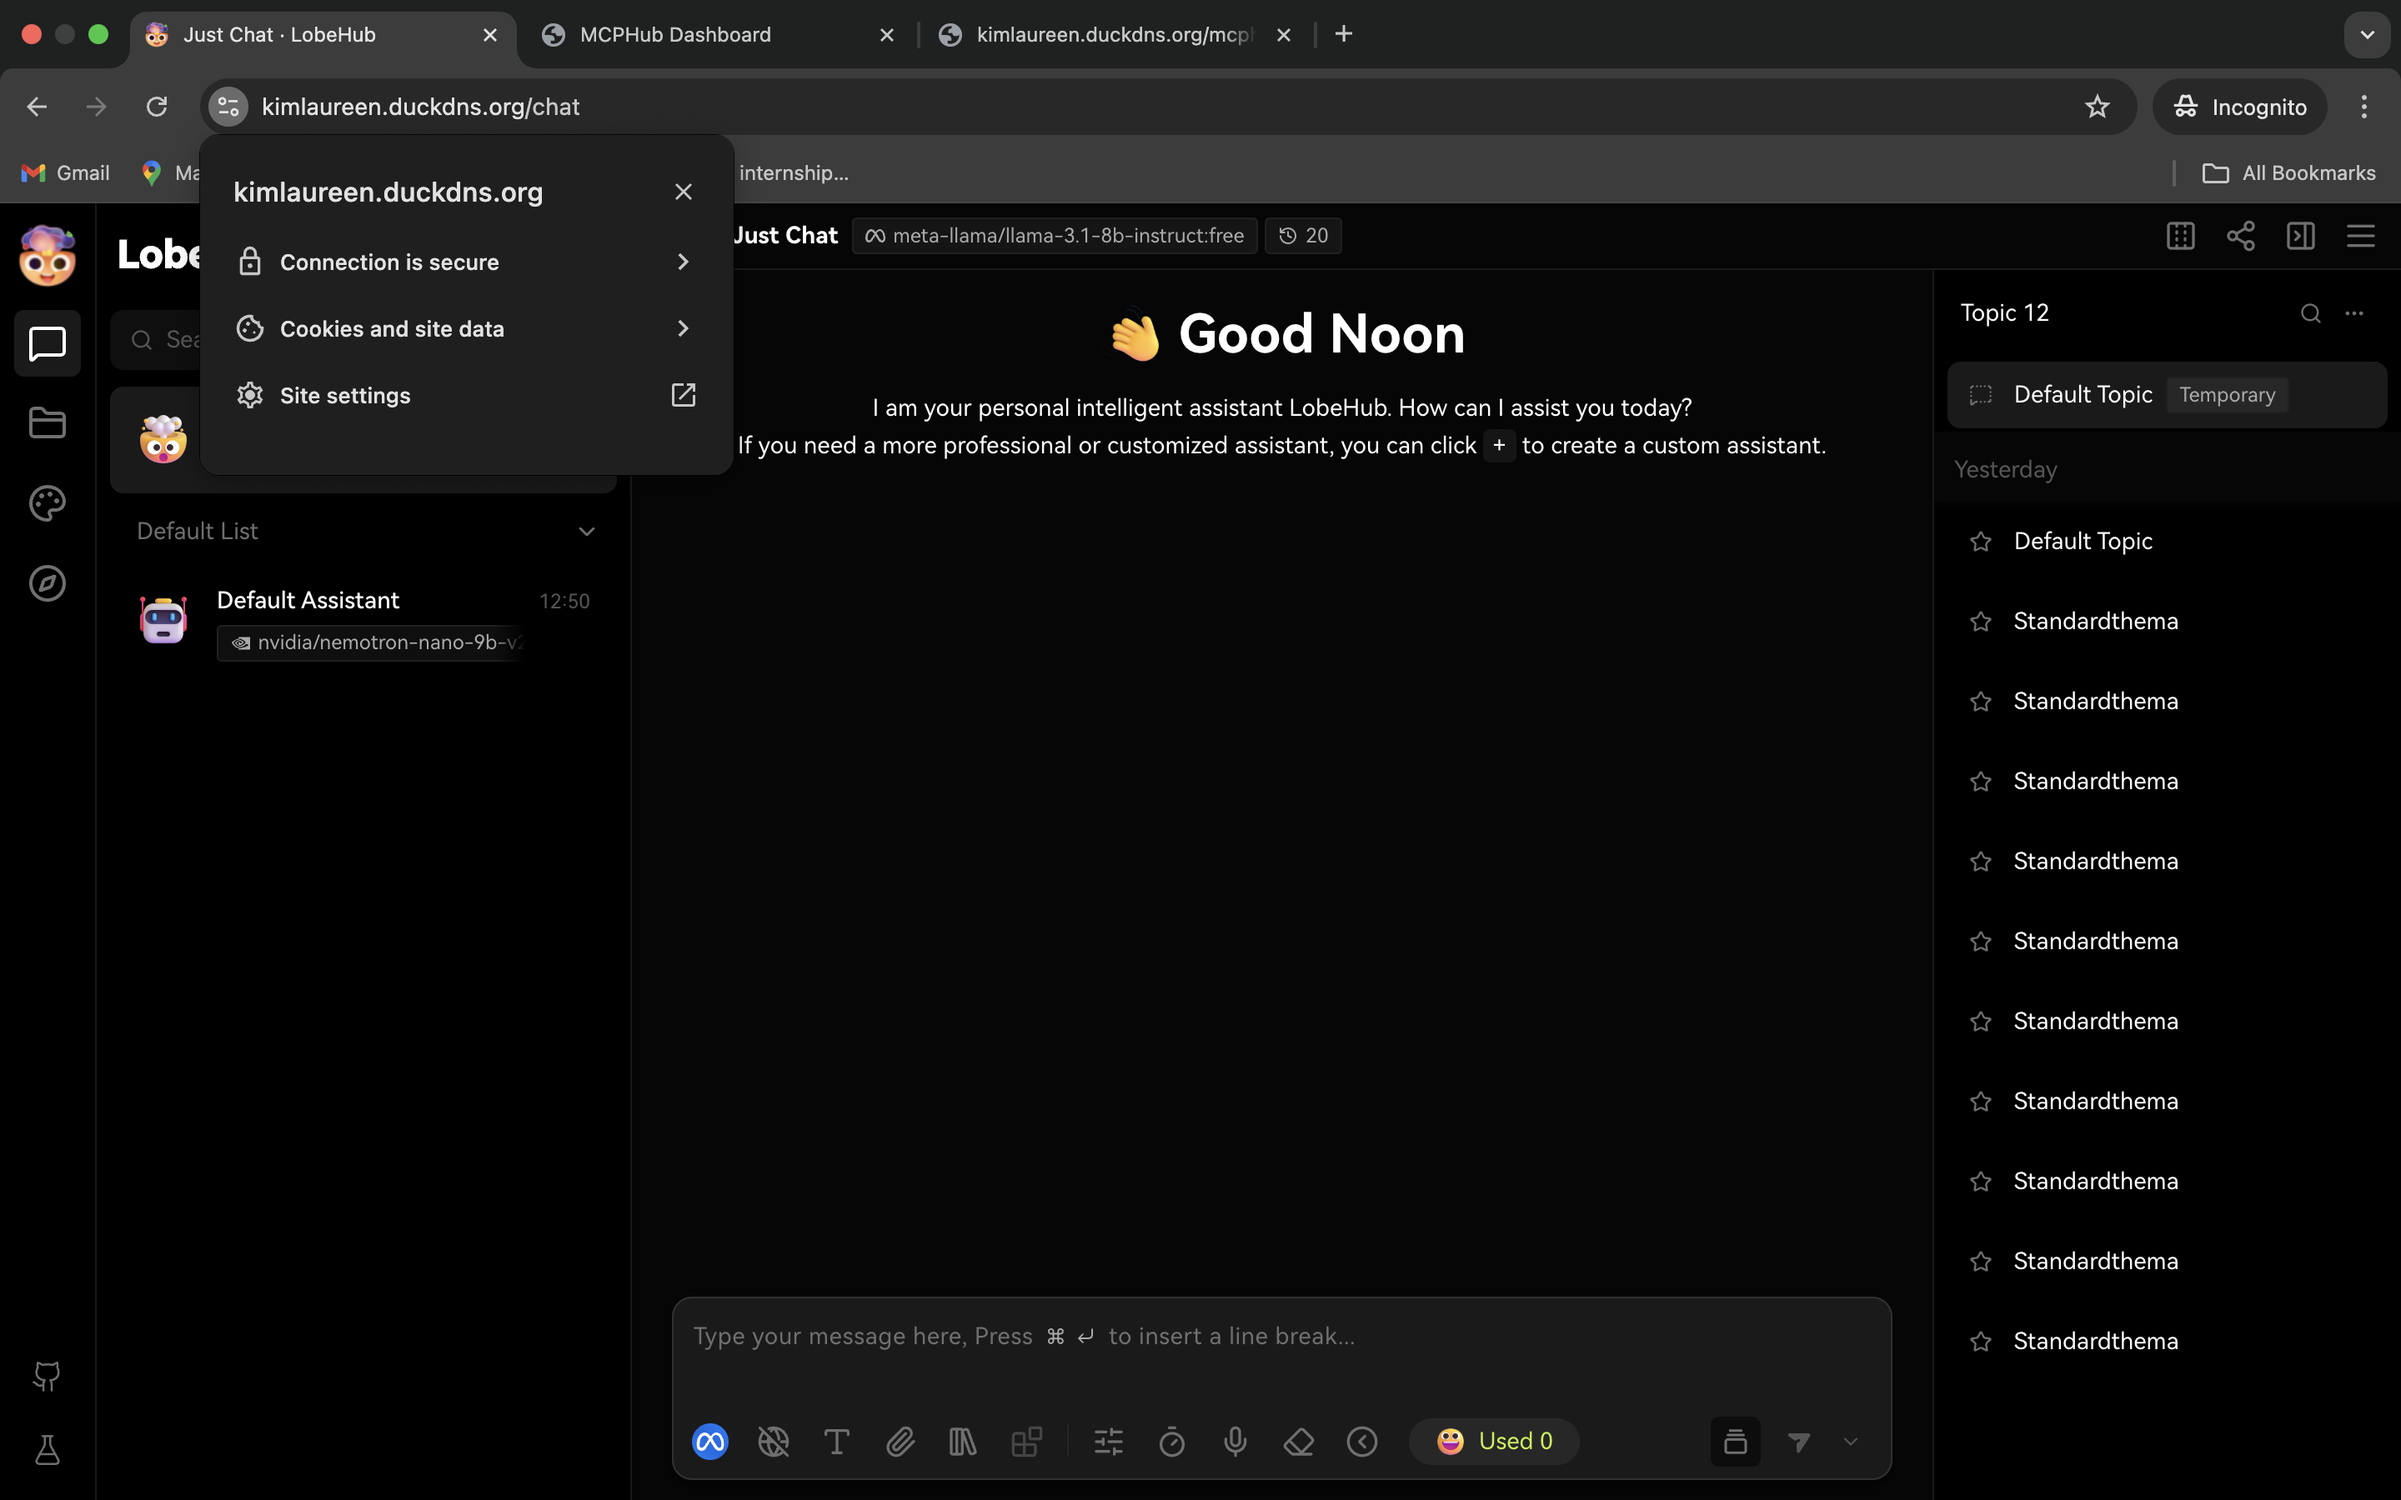
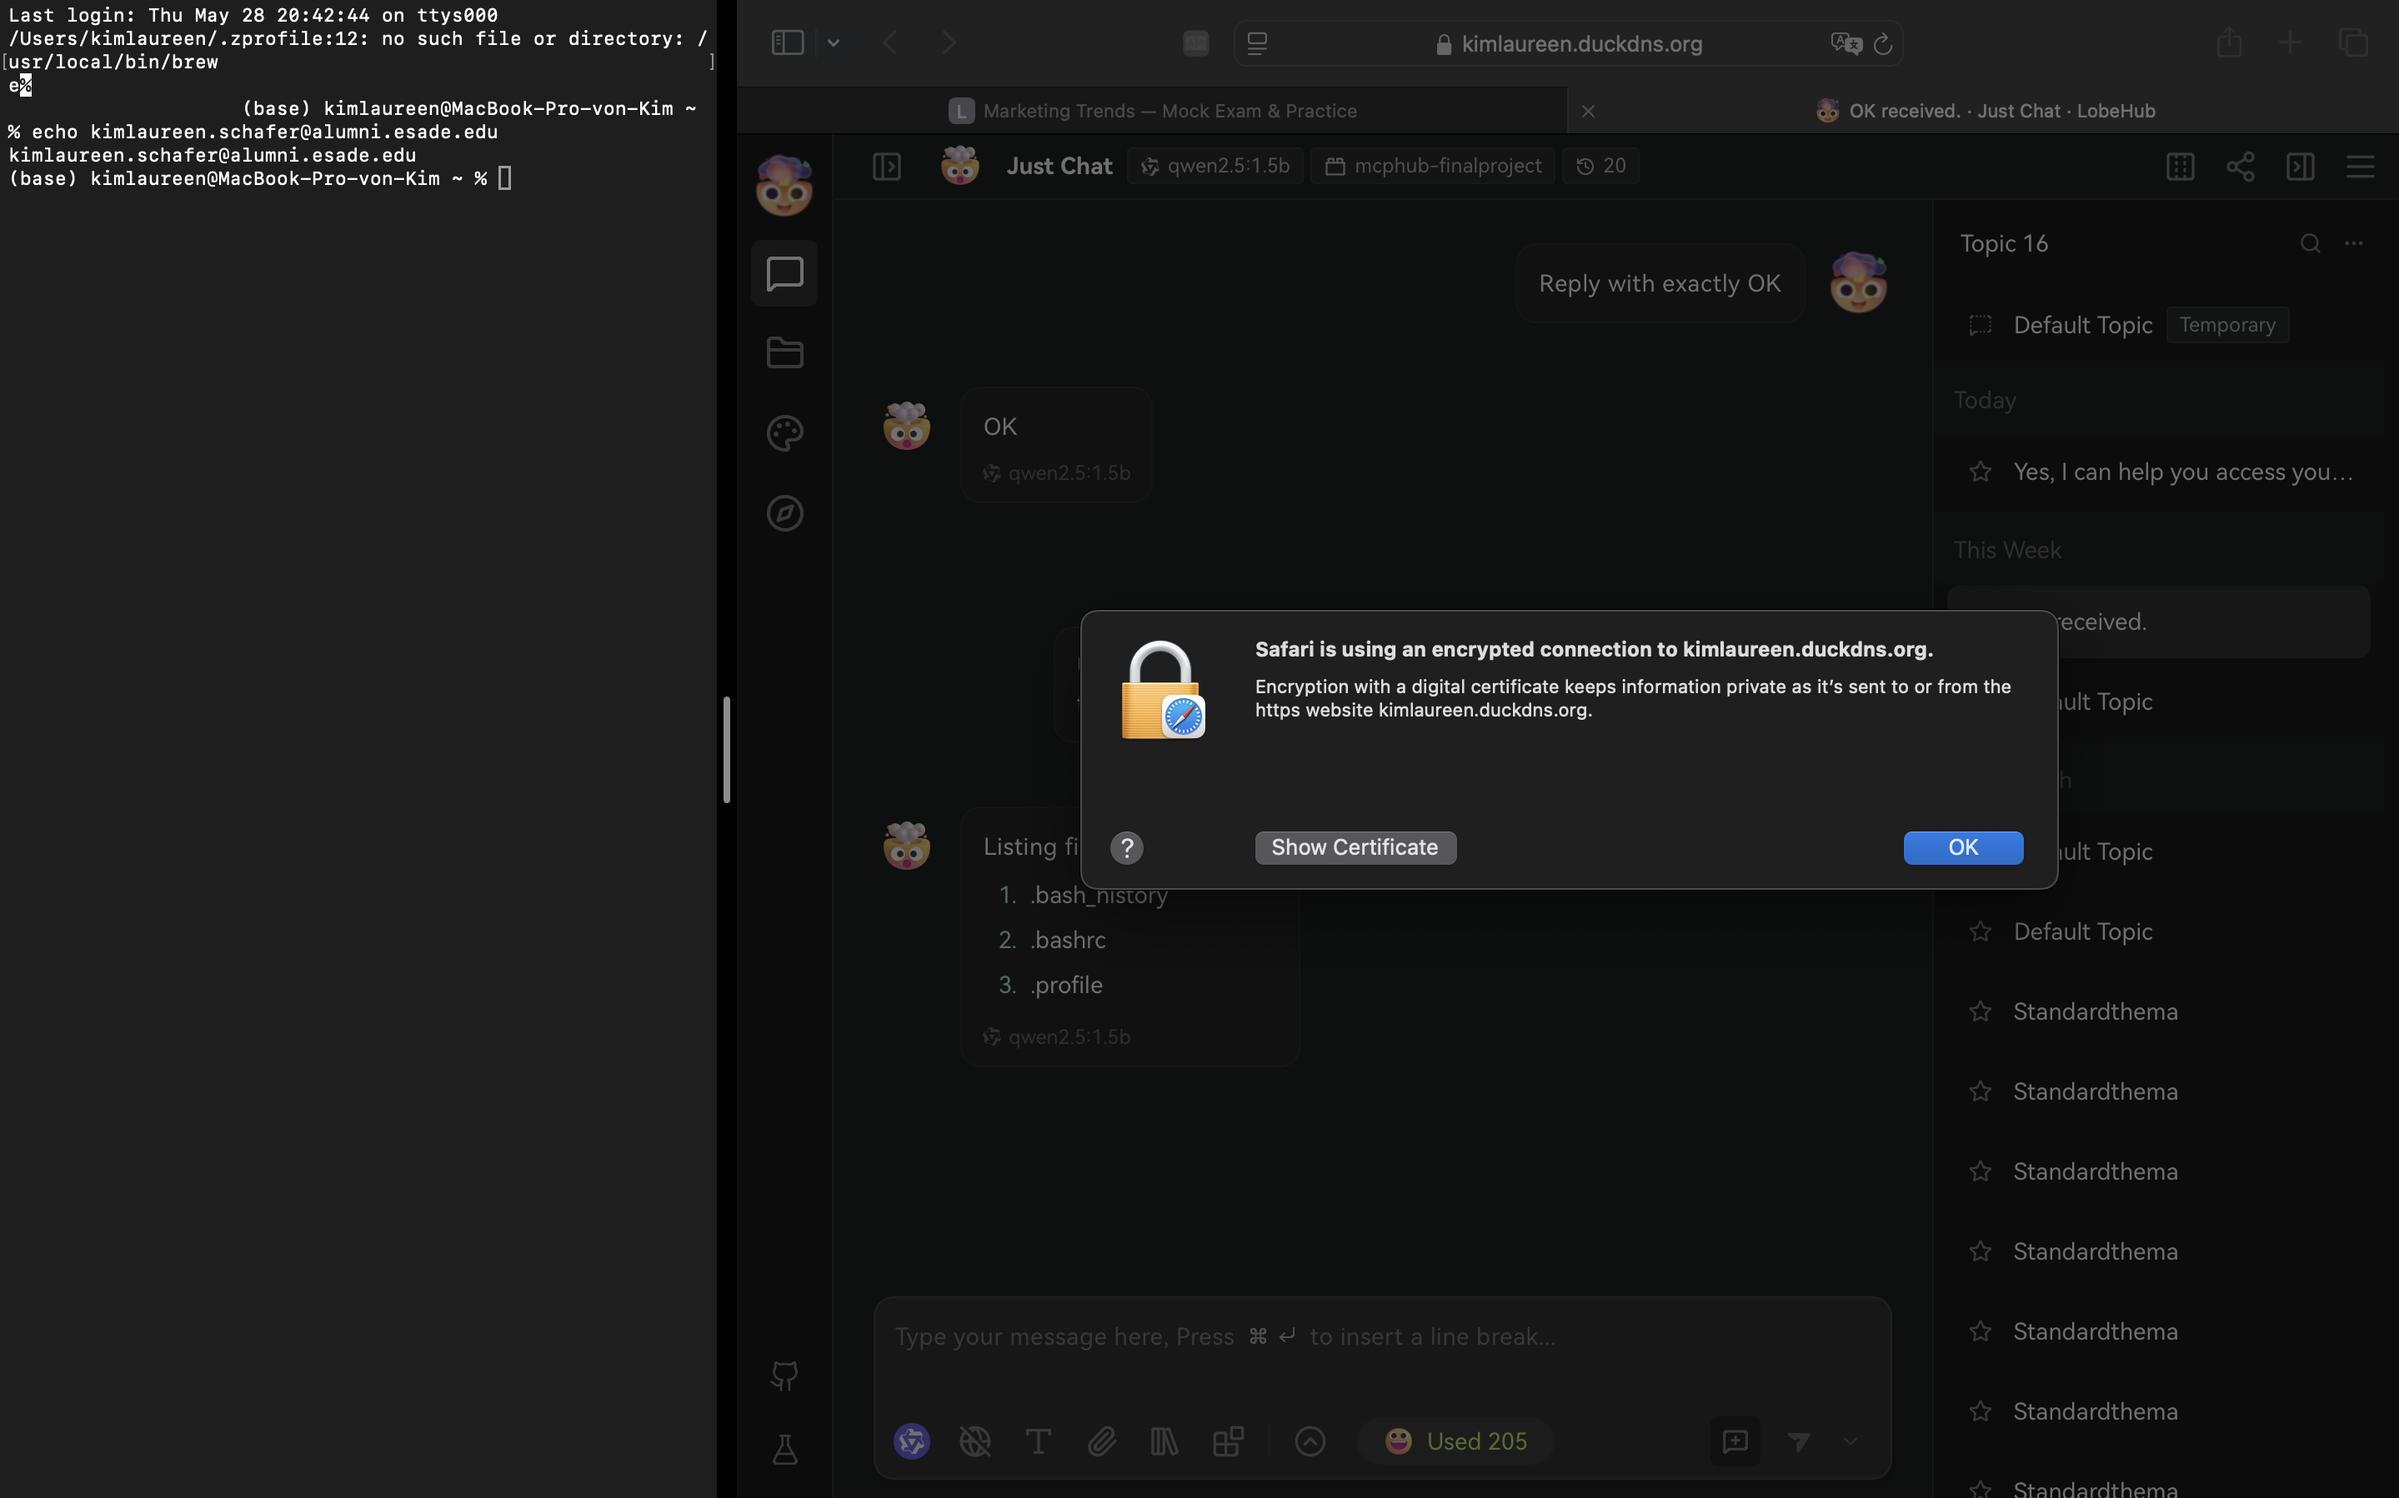
docs(evidence): refresh TLS validation evidence

diff --git a/docs/evidence/tls-validation.md b/docs/evidence/tls-validation.md
@@ -1,52 +1,101 @@
 # TLS Validation Checklist
 
-> Required by Appendix A.4. Failing any item = practical capped at 50%.
->
-> Complete each item after deployment. Replace `[ ]` with `[x]` and add
-> a timestamped screenshot path next to it.
+Appendix A.4 requires proof that the public HTTPS hostname carries the full
+LobeChat workflow, not only a green padlock.
 
 **Public URL:** https://kimlaureen.duckdns.org  
-**Student:** Kim Schäfer — kimlaureen.schafer@alumni.esade.edu
+**Student:** Kim Schäfer — kimlaureen.schafer@alumni.esade.edu  
+**Region:** `eu-west-1`  
+**EC2 instance:** `i-07ac5f31a6975d3c2` (`lobechat-server`)
 
----
+## Final Checklist
 
-## Checklist
+| Check | Status | Evidence |
+|---|---:|---|
+| Casdoor login flow completes from the public URL, with no `Secure cookie` or `redirect_uri` errors. | Passed | `casdoor-login.png`, captured `2026-05-12 13:06:28 CEST` |
+| LobeChat chat streaming works over HTTPS. | Passed | `chat-mcp.png`, captured `2026-05-30 15:46:26 CEST`; response visible in chat after prompt submission. |
+| At least one MCP tool invoked from chat returns a result. | Passed | `chat-mcp.png`, captured `2026-05-30 15:46:26 CEST`; filesystem MCP result lists `/workspace` entries. |
+| File upload to MinIO from chat works. | Pending successful upload screenshot | Needs `file-upload.png` after a successful upload from the chat attachment button. |
+| Direct connection to EC2 origin is rejected, not served directly. | Passed | `curl` to `http://18.202.153.230:47000/` timed out on `2026-05-30`; `http://18.202.153.230:443/` returned `400 Bad Request` because the port expects HTTPS. |
+| Browser shows a valid certificate chain on the public hostname. | Passed | `tls-cert.png`, captured `2026-05-30 15:46:55 CEST`; Safari reports an encrypted connection to `kimlaureen.duckdns.org`. |
 
-- [x] **Casdoor login flow** — completes from the public URL without `Secure cookie` / `redirect_uri` errors.  
-  Screenshot: `casdoor-login.png`
+## Screenshots
 
-- [ ] **Streaming works** — chat response tokens arrive incrementally (confirms SSE path through Caddy).  
-  Screenshot: `chat-streaming.png`
+### 1. Casdoor Login
 
-- [ ] **MCP tool call** — at least one MCP tool invoked from chat returns a result (confirms long-lived MCP transport through Caddy).  
-  Screenshot: `chat-mcp.png`
+![casdoor-login](casdoor-login.png)
 
-- [ ] **File upload** — file uploaded to MinIO from chat works (confirms proxy request size / timeout settings).  
-  Screenshot: `file-upload.png`
+### 2. Streaming Chat + MCP Tool Result
 
-- [ ] **Port 47000 blocked** — direct connection to `http://<eip>:47000` is refused, not just unreachable by accident.  
-  Command output: paste `curl -v --max-time 5 http://<eip>:47000/` below.
+![chat-mcp](chat-mcp.png)
 
-  ```
-  TODO — paste curl output here
-  ```
+### 3. Valid Certificate Chain
 
-- [x] **Valid certificate chain** — browser shows no warning; issuer is Let's Encrypt (public CA).  
-  Screenshot: `tls-cert.png`
+![tls-cert](tls-cert.png)
 
----
+## Command Evidence
 
-## How to capture evidence
+### Public Reachability
+
+Captured from the laptop against the public hostname:
 
 ```bash
-# Negative test from your laptop (replace <eip> with EC2 Elastic IP)
-curl -v --max-time 5 http://<eip>:47000/
-
-# Public reachability
-curl -sI https://kimlaureen.duckdns.org/
-
-# TLS certificate details
-openssl s_client -connect kimlaureen.duckdns.org:443 -servername kimlaureen.duckdns.org </dev/null 2>&1 | grep -E "subject|issuer|Verify return"
+$ curl -sI https://kimlaureen.duckdns.org/
+HTTP/2 307
+alt-svc: h3=":443"; ma=2592000
+date: Mon, 11 May 2026 11:59:39 GMT
+location: /chat
+via: 1.1 Caddy
 ```
 
-Screenshots must show your ESADE email **and** the public HTTPS URL in the same frame (browser profile, account menu, or terminal next to the browser).
+### Direct Origin Rejection
+
+```bash
+$ curl -v --max-time 5 http://18.202.153.230:47000/
+*   Trying 18.202.153.230:47000...
+* Connection timed out after 5007 milliseconds
+* Closing connection
+curl: (28) Connection timed out after 5007 milliseconds
+```
+
+The public IP is an Elastic IP, so it remains stable across instance restarts.
+The LobeChat app is not served directly on `:47000`; users should reach it only
+through `https://kimlaureen.duckdns.org`.
+
+The proxy hostname must also be required for HTTPS. A direct HTTP request to the
+EC2 IP on port `443` is rejected by the TLS listener:
+
+```bash
+$ curl -v --max-time 5 http://18.202.153.230:443/
+*   Trying 18.202.153.230:443...
+* Connected to 18.202.153.230 (18.202.153.230) port 443
+> GET / HTTP/1.1
+> Host: 18.202.153.230:443
+> User-Agent: curl/8.7.1
+> Accept: */*
+>
+< HTTP/1.0 400 Bad Request
+Client sent an HTTP request to an HTTPS server.
+```
+
+### File Upload To MinIO
+
+This still needs a successful screenshot:
+
+1. Open `https://kimlaureen.duckdns.org/chat`.
+2. Log in via Casdoor.
+3. Upload a small text file or image from the chat attachment button.
+4. Confirm LobeChat shows the uploaded file in the chat/file dock.
+5. Capture `docs/evidence/file-upload.png` with the public URL and ESADE email
+   visible in the same frame.
+
+## Notes
+
+- MCP is validated separately from upload: `chat-mcp.png` proves MCP transport
+  through Caddy works.
+- File upload validates the LobeChat-to-MinIO/S3 path and proxy request-size /
+  timeout behavior.
+- The live MinIO bucket exists and the running LobeChat container now signs
+  uploads against `https://kimlaureen.duckdns.org:9000`, matching the public
+  browser upload endpoint. A successful browser upload screenshot is still
+  required before this item can be marked passed.

diff --git a/docs/evidence/REPORT.md b/docs/evidence/REPORT.md
@@ -73,7 +73,7 @@
 $ curl -sI https://kimlaureen.duckdns.org/
 HTTP/2 307 
 alt-svc: h3=":443"; ma=2592000
-date: Mon, 11 May 2026 11:59:39 GMT
+date: Sat, 30 May 2026 13:50:40 GMT
 location: /chat
 via: 1.1 Caddy
 ```
@@ -86,11 +86,11 @@ via: 1.1 Caddy
 -->
 
 ```
-$ curl -v --max-time 5 http://3.255.161.125:47000/
-*   Trying 3.255.161.125:47000...
-* Connection timed out after 5006 milliseconds
+$ curl -v --max-time 5 http://18.202.153.230:47000/
+*   Trying 18.202.153.230:47000...
+* Connection timed out after 5007 milliseconds
 * Closing connection
-curl: (28) Connection timed out after 5006 milliseconds
+curl: (28) Connection timed out after 5007 milliseconds
 ```
 
 ## 7. Stack runtime — `docker compose ps`
